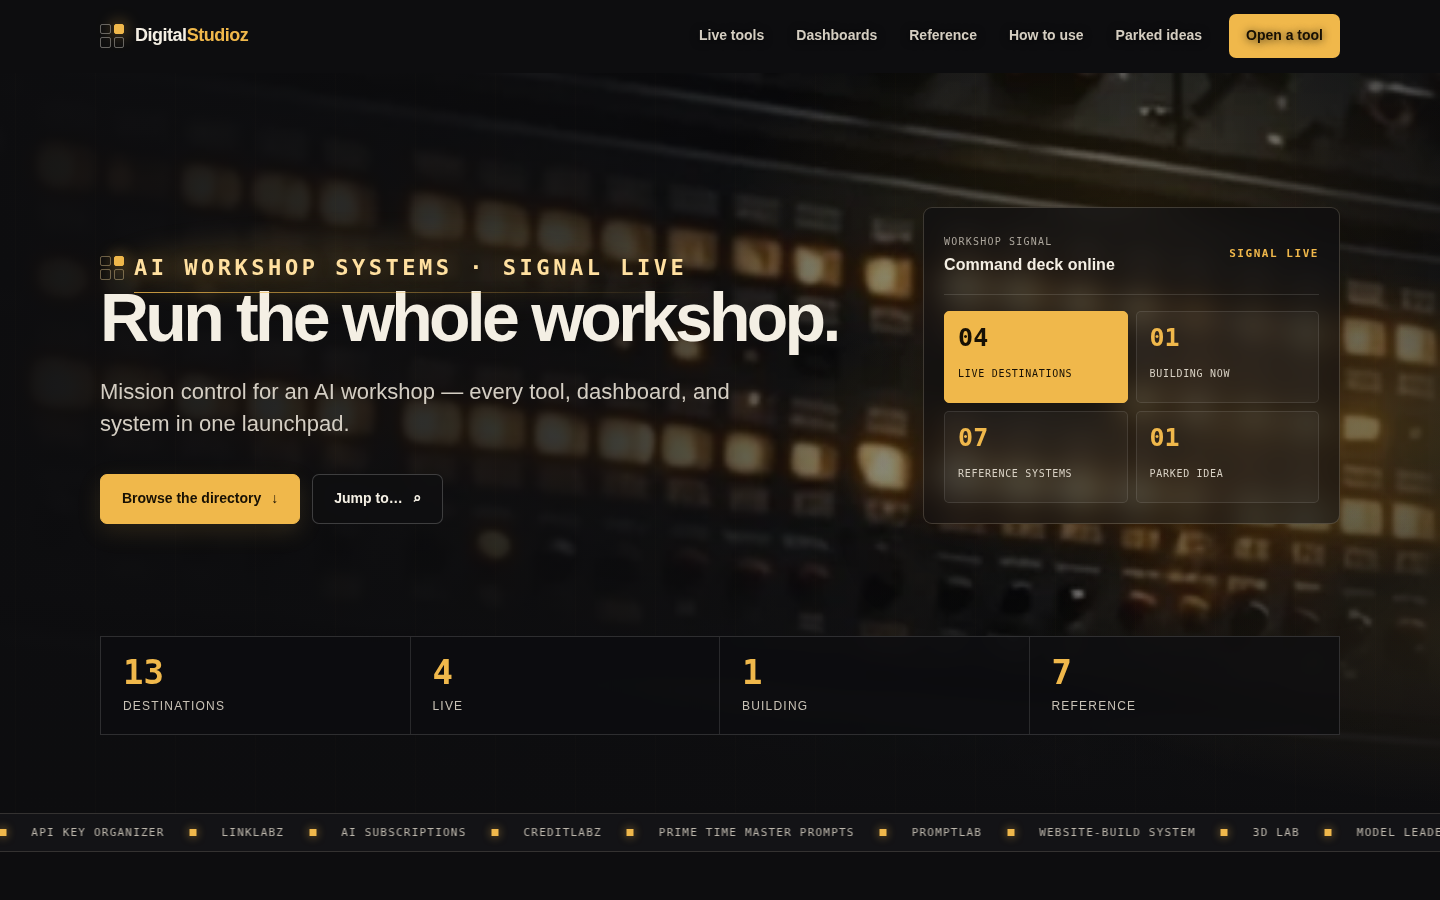
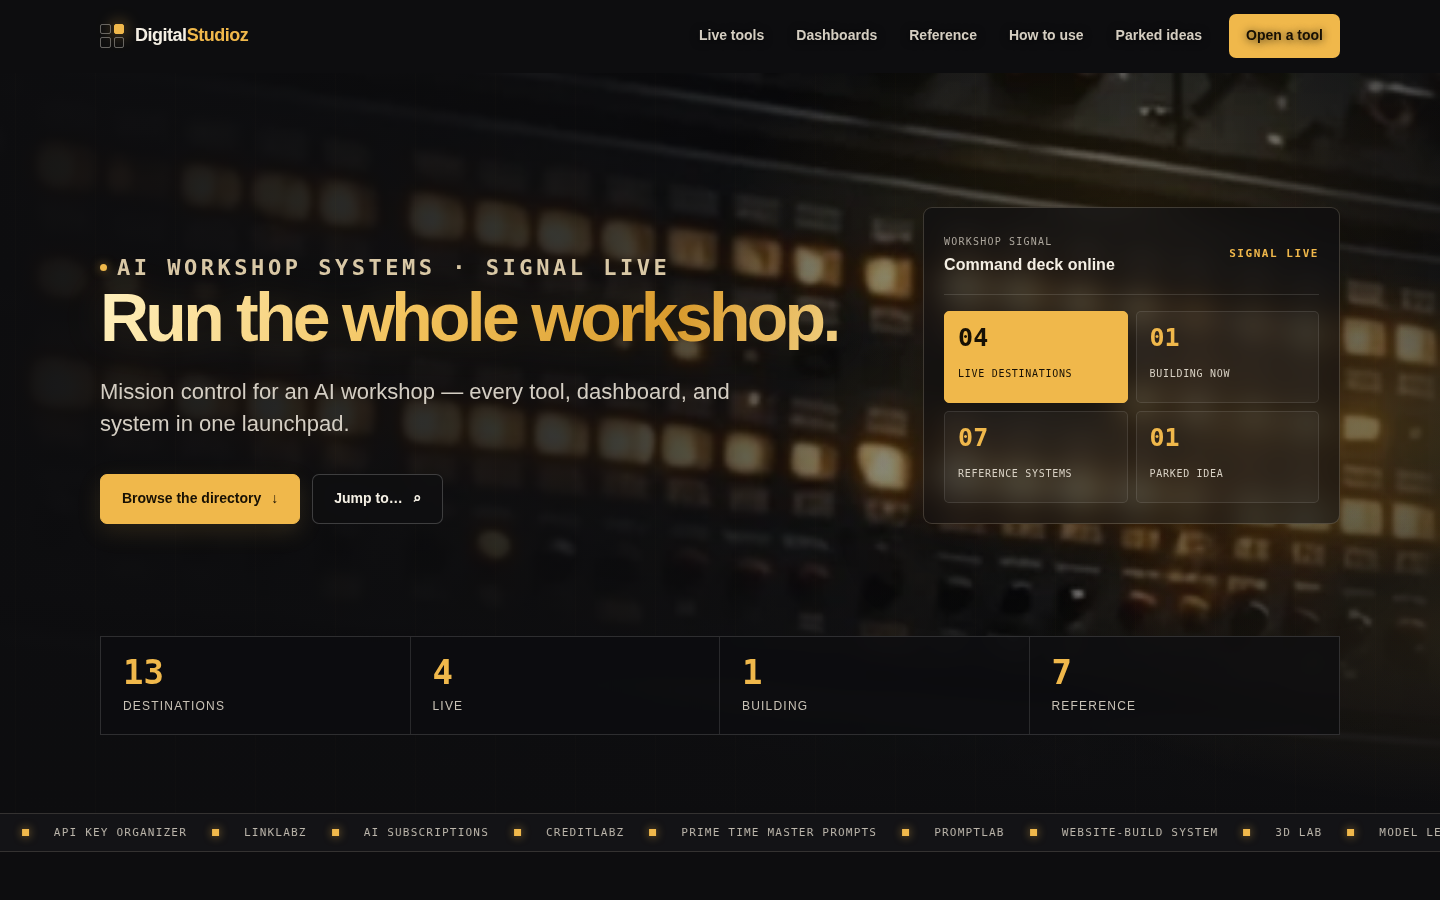
Accordion mobile menu + hero top rework: collapsed group accordions, text-only eyebrow, gradient headline

Changed region(s): [[0.0625, 0.28, 0.5938, 0.4044], [0.0, 0.9022, 1.0, 0.9333]]

diff --git a/index.html b/index.html
@@ -52,7 +52,7 @@
     .nav-links a{min-height:44px;padding:0 13px;display:inline-flex;align-items:center;text-decoration:none;color:#d5cec1;font-size:14px;font-weight:600;border-radius:7px;text-shadow:0 1px 8px rgba(0,0,0,.8)}
     .nav-links a:hover,.nav-links a:focus-visible{color:#fff;background:rgba(18,18,20,.78)}
     .nav-cta{background:var(--accent)!important;color:var(--accent-ink)!important;padding-inline:17px!important;margin-left:8px}
-    .menu-groups,.menu-group{display:contents}.menu-group-label,.nav-links>.menu-feature{display:none}
+    .menu-groups,.menu-group,.menu-group-panel,.menu-group-links{display:contents}.menu-group-toggle,.nav-links>.menu-feature{display:none}
     .nav-toggle{display:none;margin-left:auto;position:relative;z-index:120;width:46px;height:46px;padding:0;border:1px solid rgba(240,184,75,.26);background:rgba(9,9,12,.78);color:#f0b84b;border-radius:7px;backdrop-filter:blur(14px);cursor:pointer}
     .nav-toggle-lines{width:19px;height:14px;display:block;position:relative;margin:auto}.nav-toggle-lines i{position:absolute;left:0;width:100%;height:1px;background:currentColor;transition:transform .24s ease,top .24s ease,opacity .2s ease}.nav-toggle-lines i:nth-child(1){top:0}.nav-toggle-lines i:nth-child(2){top:6px}.nav-toggle-lines i:nth-child(3){top:12px}.nav-toggle[aria-expanded="true"] .nav-toggle-lines i:nth-child(1){top:6px;transform:rotate(45deg)}.nav-toggle[aria-expanded="true"] .nav-toggle-lines i:nth-child(2){opacity:0}.nav-toggle[aria-expanded="true"] .nav-toggle-lines i:nth-child(3){top:6px;transform:rotate(-45deg)}
     .menu-mark{display:none}
@@ -64,9 +64,11 @@
     .hero-layout{display:grid;grid-template-columns:minmax(0,1.12fr) minmax(300px,.62fr);gap:70px;align-items:end}
     .eyebrow{display:flex;align-items:center;gap:10px;margin:0 0 20px;color:var(--accent);font:600 12px/1.2 "IBM Plex Mono",monospace;letter-spacing:.16em;text-transform:uppercase;position:relative;width:max-content;max-width:100%}
     .eyebrow::after{content:"";position:absolute;left:34px;right:-26px;bottom:-9px;height:1px;background:linear-gradient(90deg,rgba(240,184,75,.82),rgba(240,184,75,.52),rgba(240,184,75,.22),transparent);box-shadow:0 0 14px rgba(240,184,75,.2)}
-    .hero .eyebrow{color:#ffe0a0;text-shadow:0 0 20px rgba(240,184,75,.2)}
-    .hero .eyebrow::before{content:"";position:absolute;inset:-18px -38px -18px 20px;z-index:-1;background:linear-gradient(90deg,rgba(240,184,75,.14),rgba(240,184,75,.08),transparent);filter:blur(12px);border-radius:50%}
+    .hero .eyebrow{color:#d9c8a6;text-shadow:none}
+    .hero .eyebrow::before,.hero .eyebrow::after{display:none}
+    .hero-signal-dot{width:7px;height:7px;flex:none;border-radius:50%;background:var(--accent);box-shadow:0 0 10px rgba(240,184,75,.58)}
     h1{font-size:clamp(48px,6.1vw,68px);line-height:.98;letter-spacing:-.055em;margin:0;max-width:790px;font-weight:800}
+    .hero h1{color:#f1c35e;background:linear-gradient(108deg,#fff0bd 0%,#f2c25b 42%,#d99b2d 76%,#f4d488 100%);-webkit-background-clip:text;background-clip:text;-webkit-text-fill-color:transparent;filter:drop-shadow(0 0 20px rgba(240,184,75,.12))}
     .hero-copy>p{max-width:650px;margin:26px 0 0;font-size:clamp(18px,2vw,22px);line-height:1.45;color:#d4cec3}
     .actions{display:flex;flex-wrap:wrap;gap:12px;margin-top:34px}
     .button{min-height:50px;padding:0 21px;display:inline-flex;align-items:center;justify-content:center;gap:10px;border:1px solid rgba(255,255,255,.2);border-radius:7px;text-decoration:none;font-weight:700;font-size:14px;transition:transform .18s ease,background .18s ease,border-color .18s ease,box-shadow .18s ease}
@@ -129,20 +131,20 @@
     .back-to-top svg{width:20px;height:20px;fill:none;stroke:currentColor;stroke-width:2;stroke-linecap:round;stroke-linejoin:round}
 
     @media(max-width:900px){
-      .nav-toggle{display:block}.nav-links{display:flex;position:fixed;inset:0;z-index:110;margin:0;padding:126px max(24px,7vw) max(28px,env(safe-area-inset-bottom));background:linear-gradient(145deg,#090a0e,#101015);backdrop-filter:blur(28px) saturate(1.2);border:0;border-radius:0;box-shadow:none;flex-direction:column;align-items:stretch;justify-content:flex-start;gap:20px;overflow-y:auto;visibility:hidden;opacity:0;pointer-events:none;transition:opacity .24s ease,visibility .24s ease}.nav-links::before{content:"";position:fixed;inset:0;background:radial-gradient(circle at 82% 18%,rgba(240,184,75,.11),transparent 24%),radial-gradient(circle at 18% 86%,rgba(240,184,75,.18),transparent 28%);pointer-events:none}.nav-links.open{visibility:visible;opacity:1;pointer-events:auto}.nav-links .menu-mark{display:flex;position:absolute;top:max(88px,calc(env(safe-area-inset-top) + 72px));left:max(24px,7vw);align-items:center;gap:14px;color:#f0b84b;font:600 11px/1 "IBM Plex Mono",monospace;letter-spacing:.14em;text-transform:uppercase}.menu-groups{position:relative;display:grid;grid-template-columns:repeat(2,minmax(0,1fr));gap:18px 30px}.menu-group{display:block;min-width:0;padding-top:11px;border-top:1px solid rgba(255,255,255,.12)}.menu-group-label{display:block;margin-bottom:7px;color:#8f897f;font:600 9px/1 "IBM Plex Mono",monospace;letter-spacing:.14em;text-transform:uppercase}.nav-links .menu-group>a{position:relative;width:100%;min-height:40px;padding:7px 0 7px 23px;display:flex;align-items:center;border-radius:0;color:#f4efe4;font-size:clamp(19px,4.5vw,28px);line-height:1.12;font-weight:700;letter-spacing:-.025em;text-decoration:none;text-shadow:0 2px 18px rgba(0,0,0,.7)}.nav-links .menu-group>a::before{content:"";position:absolute;left:0;width:12px;height:12px;border:1px solid rgba(240,184,75,.72);background:linear-gradient(135deg,transparent 48%,rgba(240,184,75,.9) 49% 58%,transparent 59%);box-shadow:0 0 12px rgba(240,184,75,.14)}.nav-links a:hover,.nav-links a:focus-visible{color:#f0b84b;background:transparent}.nav-links>.menu-feature{position:relative;display:grid;grid-template-columns:minmax(0,1fr) auto;gap:18px;align-items:center;padding:18px;border:1px solid rgba(240,184,75,.38);background:linear-gradient(135deg,rgba(240,184,75,.16),rgba(255,255,255,.035));border-radius:8px;text-decoration:none}.menu-feature strong{display:block;color:#f4efe4;font-size:20px;line-height:1.15}.menu-feature small{display:flex;align-items:center;gap:8px;margin-top:7px;color:#f0b84b;font:600 10px/1 "IBM Plex Mono",monospace;letter-spacing:.11em;text-transform:uppercase}.menu-feature small::before{content:"";width:7px;height:7px;border-radius:50%;background:#f0b84b;box-shadow:0 0 12px rgba(240,184,75,.72)}.menu-feature-arrow{color:#f0b84b;font-size:25px}.nav-links>.nav-cta{display:none}.nav-links.open .menu-groups,.nav-links.open .menu-feature{animation:menu-in .34s ease both}.nav-links.open .menu-feature{animation-delay:.08s}@keyframes menu-in{from{opacity:0;transform:translateY(14px)}to{opacity:1;transform:none}}body.menu-open{overflow:hidden}
-      .hero{padding-top:62px;min-height:auto}.hero-layout{grid-template-columns:1fr;gap:34px}.command-panel{max-width:520px}.stat-strip{margin-top:28px}.section-head{grid-template-columns:1fr;gap:20px}.cards{grid-template-columns:repeat(2,minmax(0,1fr))}.directory-tools{position:relative;top:auto;flex-wrap:wrap}.search{flex-basis:100%}.filters{flex:1}.steps{grid-template-columns:repeat(2,1fr)}.step:nth-child(2){border-right:0}.step:nth-child(-n+2){border-bottom:1px solid var(--line)}
+      .nav-toggle{display:block}.nav-links{display:flex;position:fixed;inset:0;z-index:110;margin:0;padding:126px max(24px,7vw) max(28px,env(safe-area-inset-bottom));background:linear-gradient(145deg,#090a0e,#101015);backdrop-filter:blur(28px) saturate(1.2);border:0;border-radius:0;box-shadow:none;flex-direction:column;align-items:stretch;justify-content:flex-start;gap:20px;overflow-y:auto;visibility:hidden;opacity:0;pointer-events:none;transition:opacity .24s ease,visibility .24s ease}.nav-links::before{content:"";position:fixed;inset:0;background:radial-gradient(circle at 82% 18%,rgba(240,184,75,.11),transparent 24%),radial-gradient(circle at 18% 86%,rgba(240,184,75,.18),transparent 28%);pointer-events:none}.nav-links.open{visibility:visible;opacity:1;pointer-events:auto}.nav-links .menu-mark{display:flex;position:absolute;top:max(88px,calc(env(safe-area-inset-top) + 72px));left:max(24px,7vw);align-items:center;gap:14px;color:#f0b84b;font:600 11px/1 "IBM Plex Mono",monospace;letter-spacing:.14em;text-transform:uppercase}.menu-groups{position:relative;display:grid;grid-template-columns:repeat(2,minmax(0,1fr));gap:18px 30px}.menu-group{display:block;min-width:0;border-top:1px solid rgba(255,255,255,.12)}.menu-group-toggle{width:100%;min-height:46px;padding:11px 0;display:flex;align-items:center;justify-content:space-between;gap:16px;border:0;background:transparent;color:#a7a095;cursor:pointer;text-align:left;font:600 10px/1 "IBM Plex Mono",monospace;letter-spacing:.14em;text-transform:uppercase}.menu-group-toggle:hover,.menu-group-toggle:focus-visible{color:#f0b84b}.menu-group-toggle:focus-visible{outline:2px solid var(--accent);outline-offset:3px}.menu-chevron{width:18px;height:18px;flex:none;fill:none;stroke:currentColor;stroke-width:1.8;stroke-linecap:round;stroke-linejoin:round;transition:transform .24s ease}.menu-group.expanded .menu-chevron{transform:rotate(180deg)}.menu-group-panel{display:block;max-height:0;overflow:hidden;opacity:0;visibility:hidden;transition:max-height .3s cubic-bezier(.2,.72,.24,1),opacity .22s ease,visibility 0s linear .3s}.menu-group.expanded .menu-group-panel{max-height:140px;opacity:1;visibility:visible;transition:max-height .3s cubic-bezier(.2,.72,.24,1),opacity .22s ease,visibility 0s}.menu-group-links{display:block;min-height:0;overflow:hidden;padding-left:10px}.nav-links .menu-group-links>a{position:relative;width:100%;min-height:40px;padding:7px 0 7px 25px;display:flex;align-items:center;border-radius:0;color:#f4efe4;font-size:clamp(18px,4.2vw,24px);line-height:1.12;font-weight:700;letter-spacing:-.025em;text-decoration:none;text-shadow:0 2px 18px rgba(0,0,0,.7)}.nav-links .menu-group-links>a:last-child{padding-bottom:13px}.nav-links .menu-group-links>a::before{content:"";position:absolute;left:0;width:12px;height:12px;border:1px solid rgba(240,184,75,.72);background:linear-gradient(135deg,transparent 48%,rgba(240,184,75,.9) 49% 58%,transparent 59%);box-shadow:0 0 12px rgba(240,184,75,.14)}.nav-links a:hover,.nav-links a:focus-visible{color:#f0b84b;background:transparent}.nav-links>.menu-feature{position:relative;display:grid;grid-template-columns:minmax(0,1fr) auto;gap:18px;align-items:center;padding:18px;border:1px solid rgba(240,184,75,.38);background:linear-gradient(135deg,rgba(240,184,75,.16),rgba(255,255,255,.035));border-radius:8px;text-decoration:none}.menu-feature strong{display:block;color:#f4efe4;font-size:20px;line-height:1.15}.menu-feature small{display:flex;align-items:center;gap:8px;margin-top:7px;color:#f0b84b;font:600 10px/1 "IBM Plex Mono",monospace;letter-spacing:.11em;text-transform:uppercase}.menu-feature small::before{content:"";width:7px;height:7px;border-radius:50%;background:#f0b84b;box-shadow:0 0 12px rgba(240,184,75,.72)}.menu-feature-arrow{color:#f0b84b;font-size:25px}.nav-links>.nav-cta{display:none}.nav-links.open .menu-groups,.nav-links.open .menu-feature{animation:menu-in .34s ease both}.nav-links.open .menu-feature{animation-delay:.08s}@keyframes menu-in{from{opacity:0;transform:translateY(14px)}to{opacity:1;transform:none}}body.menu-open{overflow:hidden}
+      .hero{padding-top:28px;min-height:auto}.hero-layout{grid-template-columns:1fr;gap:40px}.hero .hero-copy>.eyebrow{width:max-content;max-width:100%;margin:0 0 28px;padding:0;border:0;border-radius:0;background:none;box-shadow:none;backdrop-filter:none;letter-spacing:.12em}.hero .hero-copy>p:not(.eyebrow){margin-top:28px;line-height:1.55}.hero .actions{margin-top:32px;gap:14px}.command-panel{max-width:520px}.stat-strip{margin-top:0}.section-head{grid-template-columns:1fr;gap:20px}.cards{grid-template-columns:repeat(2,minmax(0,1fr))}.directory-tools{position:relative;top:auto;flex-wrap:wrap}.search{flex-basis:100%}.filters{flex:1}.steps{grid-template-columns:repeat(2,1fr)}.step:nth-child(2){border-right:0}.step:nth-child(-n+2){border-bottom:1px solid var(--line)}
     }
     @media(max-width:620px){
       .ticker{animation:none;transform:translateX(-220px)}
-      .shell{width:min(calc(100% - 28px),var(--max))}.brand-word{font-size:16px}.hero{padding-top:46px}.hero::before{background-position:68% center}.hero-layout{gap:28px}h1{font-size:clamp(40px,12.5vw,52px);overflow-wrap:anywhere}.hero-copy>p{max-width:100%;font-size:17px;overflow-wrap:anywhere}.actions{display:grid;grid-template-columns:minmax(0,1fr)}.button{width:100%}.command-panel{width:100%;max-width:100%;padding:14px}.panel-top>*{min-width:0}.signal-matrix{grid-template-columns:repeat(2,minmax(0,1fr))}.matrix-cell{min-width:0;min-height:82px;padding:12px;overflow-wrap:anywhere}.stat-strip{width:100%;max-width:100%;grid-template-columns:repeat(2,minmax(0,1fr));overflow:hidden}.stat{min-width:0;padding:16px 14px}.stat:nth-child(2){border-right:0}.stat:nth-child(-n+2){border-bottom:1px solid rgba(255,255,255,.12)}.stat span{font-size:10px;letter-spacing:.07em;overflow-wrap:anywhere}section{padding:78px 0}.directory{padding-top:88px}.directory-tools{padding:10px}.filters{display:grid;grid-template-columns:1fr 1fr;width:100%}.filters .filter:first-child{grid-column:1/-1}.result-count{width:100%;padding:8px 4px}.cards{grid-template-columns:1fr}.card{min-height:400px}.group{margin-top:56px}.steps{grid-template-columns:1fr}.step,.step:nth-child(2){border-right:0;border-bottom:1px solid var(--line)}.step:last-child{border-bottom:0}.final-panel{grid-template-columns:1fr;padding:30px 24px}.footer-row{align-items:flex-start;flex-wrap:wrap}.footer-status{width:100%}.footer-links{flex-wrap:wrap}
+      .shell{width:min(calc(100% - 28px),var(--max))}.brand-word{font-size:16px}.hero{padding-top:22px}.hero::before{background-position:68% center}.hero-layout{gap:38px}.hero .hero-copy>.eyebrow{font-size:10px;letter-spacing:.1em}h1{font-size:clamp(40px,12.5vw,52px);overflow-wrap:anywhere}.hero-copy>p{max-width:100%;font-size:17px;overflow-wrap:anywhere}.actions{display:grid;grid-template-columns:minmax(0,1fr)}.button{width:100%}.command-panel{width:100%;max-width:100%;padding:14px}.panel-top>*{min-width:0}.signal-matrix{grid-template-columns:repeat(2,minmax(0,1fr))}.matrix-cell{min-width:0;min-height:82px;padding:12px;overflow-wrap:anywhere}.stat-strip{width:100%;max-width:100%;grid-template-columns:repeat(2,minmax(0,1fr));overflow:hidden}.stat{min-width:0;padding:16px 14px}.stat:nth-child(2){border-right:0}.stat:nth-child(-n+2){border-bottom:1px solid rgba(255,255,255,.12)}.stat span{font-size:10px;letter-spacing:.07em;overflow-wrap:anywhere}section{padding:78px 0}.directory{padding-top:88px}.directory-tools{padding:10px}.filters{display:grid;grid-template-columns:1fr 1fr;width:100%}.filters .filter:first-child{grid-column:1/-1}.result-count{width:100%;padding:8px 4px}.cards{grid-template-columns:1fr}.card{min-height:400px}.group{margin-top:56px}.steps{grid-template-columns:1fr}.step,.step:nth-child(2){border-right:0;border-bottom:1px solid var(--line)}.step:last-child{border-bottom:0}.final-panel{grid-template-columns:1fr;padding:30px 24px}.footer-row{align-items:flex-start;flex-wrap:wrap}.footer-status{width:100%}.footer-links{flex-wrap:wrap}
     }
     @media(max-width:480px){
       .shell{width:calc(100% - 24px)}
-      .eyebrow{width:100%;max-width:100%;display:grid;grid-template-columns:24px minmax(0,1fr);align-items:start;gap:10px;line-height:1.45}.eyebrow-text{min-width:0;white-space:normal;overflow-wrap:normal;word-break:normal}.eyebrow::after{left:34px;right:0}
-      .menu-groups{grid-template-columns:1fr;gap:12px}.nav-links{padding-inline:22px;gap:16px}.nav-links .menu-mark{left:22px}.nav-links .menu-group>a{font-size:20px;min-height:36px;padding-block:5px}.nav-links>.menu-feature{padding:15px}.menu-feature strong{font-size:18px}
+      .eyebrow{width:100%;max-width:100%;display:grid;grid-template-columns:24px minmax(0,1fr);align-items:start;gap:10px;line-height:1.45}.eyebrow-text{min-width:0;white-space:normal;overflow-wrap:normal;word-break:normal}.eyebrow::after{left:34px;right:0}.hero .hero-copy>.eyebrow{width:max-content;display:flex;grid-template-columns:none;align-items:center;gap:9px}.hero .hero-copy>.eyebrow .eyebrow-text{white-space:normal}
+      .menu-groups{grid-template-columns:1fr;gap:12px}.nav-links{padding-inline:22px;gap:16px}.nav-links .menu-mark{left:22px}.nav-links .menu-group-links>a{font-size:20px;min-height:36px;padding-block:5px}.nav-links>.menu-feature{padding:15px}.menu-feature strong{font-size:18px}
       .panel-top{align-items:flex-start;gap:10px}.panel-top strong{display:inline-block;max-width:180px;overflow-wrap:anywhere}.signal-tag{font-size:9px;letter-spacing:.09em;text-align:right;white-space:normal}.matrix-cell span{font-size:9px;letter-spacing:.045em}.matrix-cell b{font-size:23px}.card-meta{flex-wrap:wrap}.group-title{gap:10px}.group-title h3{font-size:20px}.group-title .count{font-size:9px}
     }
-    @media(prefers-reduced-motion:reduce){html{scroll-behavior:auto}.preloader .signal-grid i:nth-child(2),.ticker{animation:none}.button,.card,.thumb img,.reveal,.back-to-top,.hero .hero-copy>*,.hero .command-panel{transition:none!important;animation:none!important}.button,.card,.thumb img,.reveal,.hero .hero-copy>*,.hero .command-panel{transform:none!important}.js .reveal,.js .hero .hero-copy>*,.js .hero .command-panel{opacity:1}.hero::after{background:none}}
+    @media(prefers-reduced-motion:reduce){html{scroll-behavior:auto}.preloader .signal-grid i:nth-child(2),.ticker{animation:none}.button,.card,.thumb img,.reveal,.back-to-top,.hero .hero-copy>*,.hero .command-panel,.menu-group-panel,.menu-chevron{transition:none!important;animation:none!important}.button,.card,.thumb img,.reveal,.hero .hero-copy>*,.hero .command-panel{transform:none!important}.js .reveal,.js .hero .hero-copy>*,.js .hero .command-panel{opacity:1}.hero::after{background:none}}
   </style>
   <script>document.documentElement.classList.add('js');</script>
 </head>
@@ -155,10 +157,10 @@
       <div class="nav-links" id="nav-links">
         <div class="menu-mark"><span class="signal-grid" aria-hidden="true"><i></i><i></i><i></i><i></i></span><span>Directory signal</span></div>
         <div class="menu-groups">
-          <div class="menu-group"><span class="menu-group-label">Live tools</span><a href="#live-tools">Live tools</a></div>
-          <div class="menu-group"><span class="menu-group-label">Dashboards</span><a href="#studio-dashboards">Dashboards</a></div>
-          <div class="menu-group"><span class="menu-group-label">Reference</span><a href="#reference">Reference</a><a href="#how">How to use</a></div>
-          <div class="menu-group"><span class="menu-group-label">Parked</span><a href="#parked">Parked ideas</a></div>
+          <div class="menu-group"><button class="menu-group-toggle" type="button" aria-expanded="false" aria-controls="menu-live"><span>Live tools</span><svg class="menu-chevron" viewBox="0 0 24 24" aria-hidden="true"><path d="m7 10 5 5 5-5"></path></svg></button><div class="menu-group-panel" id="menu-live"><div class="menu-group-links"><a href="#live-tools">Live tools</a></div></div></div>
+          <div class="menu-group"><button class="menu-group-toggle" type="button" aria-expanded="false" aria-controls="menu-dashboards"><span>Dashboards</span><svg class="menu-chevron" viewBox="0 0 24 24" aria-hidden="true"><path d="m7 10 5 5 5-5"></path></svg></button><div class="menu-group-panel" id="menu-dashboards"><div class="menu-group-links"><a href="#studio-dashboards">Dashboards</a></div></div></div>
+          <div class="menu-group"><button class="menu-group-toggle" type="button" aria-expanded="false" aria-controls="menu-reference"><span>Reference</span><svg class="menu-chevron" viewBox="0 0 24 24" aria-hidden="true"><path d="m7 10 5 5 5-5"></path></svg></button><div class="menu-group-panel" id="menu-reference"><div class="menu-group-links"><a href="#reference">Reference</a><a href="#how">How to use</a></div></div></div>
+          <div class="menu-group"><button class="menu-group-toggle" type="button" aria-expanded="false" aria-controls="menu-parked"><span>Parked</span><svg class="menu-chevron" viewBox="0 0 24 24" aria-hidden="true"><path d="m7 10 5 5 5-5"></path></svg></button><div class="menu-group-panel" id="menu-parked"><div class="menu-group-links"><a href="#parked">Parked ideas</a></div></div></div>
         </div>
         <a class="menu-feature" href="#live-tools"><span><strong>Skill Catalog</strong><small>signal live · featured destination</small></span><span class="menu-feature-arrow" aria-hidden="true">↗</span></a>
         <a class="nav-cta" href="#directory">Open a tool</a>
@@ -170,7 +172,7 @@
     <section class="hero" aria-labelledby="hero-title">
       <div class="shell hero-layout">
         <div class="hero-copy reveal">
-          <p class="eyebrow"><span class="signal-grid" aria-hidden="true"><i></i><i></i><i></i><i></i></span><span class="eyebrow-text">AI workshop systems · signal live</span></p>
+          <p class="eyebrow"><span class="hero-signal-dot" aria-hidden="true"></span><span class="eyebrow-text">AI workshop systems · signal live</span></p>
           <h1 id="hero-title">Run the whole workshop.</h1>
           <p>Mission control for an AI workshop — every tool, dashboard, and system in one launchpad.</p>
           <div class="actions"><a class="button primary" href="#directory">Browse the directory <span aria-hidden="true">↓</span></a><a class="button secondary" href="#search">Jump to… <span aria-hidden="true">⌕</span></a></div>
@@ -238,9 +240,11 @@
       function onScroll(){var pastHero=window.scrollY>hero.offsetTop+hero.offsetHeight;header.classList.toggle('scrolled',window.scrollY>18);backToTop.classList.toggle('visible',pastHero);backToTop.inert=!pastHero;backToTop.setAttribute('aria-hidden',String(!pastHero))}
       onScroll(); window.addEventListener('scroll',onScroll,{passive:true});
       backToTop.addEventListener('click',function(){var reduced=window.matchMedia('(prefers-reduced-motion: reduce)').matches;window.scrollTo({top:0,behavior:reduced?'auto':'smooth'})});
-      var toggle=document.querySelector('.nav-toggle'), nav=document.querySelector('.nav-links');
+      var toggle=document.querySelector('.nav-toggle'), nav=document.querySelector('.nav-links'), groupToggles=Array.from(document.querySelectorAll('.menu-group-toggle'));
       if(window.innerWidth<=900)nav.setAttribute('inert','');else nav.removeAttribute('inert');
-      function setMenu(open,returnFocus){nav.classList.toggle('open',open);if(open)nav.removeAttribute('inert');else if(window.innerWidth<=900)nav.setAttribute('inert','');document.body.classList.toggle('menu-open',open);toggle.setAttribute('aria-expanded',String(open));toggle.setAttribute('aria-label',open?'Close navigation':'Open navigation');if(open){window.setTimeout(function(){var first=nav.querySelector('a');if(first)first.focus()},260)}else if(returnFocus){toggle.focus()}}
+      function collapseGroups(){groupToggles.forEach(function(button){button.setAttribute('aria-expanded','false');button.closest('.menu-group').classList.remove('expanded')})}
+      function setMenu(open,returnFocus){nav.classList.toggle('open',open);if(open)nav.removeAttribute('inert');else{collapseGroups();if(window.innerWidth<=900)nav.setAttribute('inert','')}document.body.classList.toggle('menu-open',open);toggle.setAttribute('aria-expanded',String(open));toggle.setAttribute('aria-label',open?'Close navigation':'Open navigation');if(open){window.setTimeout(function(){var first=nav.querySelector('.menu-group-toggle')||nav.querySelector('a');if(first)first.focus()},260)}else if(returnFocus){toggle.focus()}}
+      groupToggles.forEach(function(button){button.addEventListener('click',function(){var open=button.getAttribute('aria-expanded')==='true';button.setAttribute('aria-expanded',String(!open));button.closest('.menu-group').classList.toggle('expanded',!open)})});
       toggle.addEventListener('click',function(){setMenu(!nav.classList.contains('open'),false)});
       nav.querySelectorAll('a').forEach(function(a){a.addEventListener('click',function(){setMenu(false,false)})});
       nav.addEventListener('click',function(e){if(e.target===nav)setMenu(false,true)});
